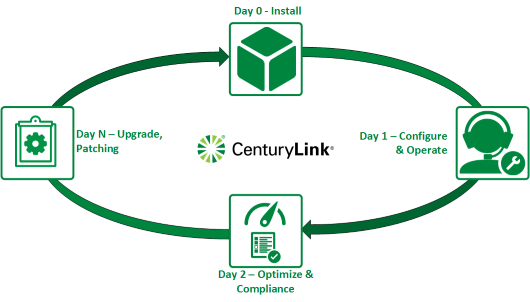
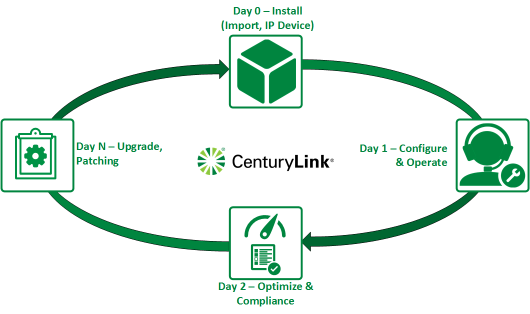
fix lifecycle definition

Changed region(s): [[0.0, 0.0, 1.0, 0.9834], [0.3623, 0.447, 0.634, 0.5662], [0.6642, 0.4172, 0.8453, 0.5364]]

diff --git a/Network/load-balancing-comparison-matrix.md b/Network/load-balancing-comparison-matrix.md
@@ -35,11 +35,11 @@ OSI Model<sup>5</sup>|Layer 4|Layer 4|Layer 4<br>Layer 7|Layer 4<br>Layer 7
 
 <sup>3: [Support](//www.ctl.io/support/) is defined as an agreement between CenturyLink and the customer to provide technical support and incident management for the load balancing service. **Limited Support provides customer service engineers to confirm the infrastructure state and virtual machine state.  Customers are responsible for all Day 1, 2 and N operational support.**</sup>
 
-<sup>4: [CenturyLink offers](//ctl.io/pricing) various pricing models for the Citrix VPX virtual appliance based on performance and availability needs.  Customers can elect to upgrade **edition** and **availability** configurations at any time.
+<sup>4: [CenturyLink offers](//ctl.io/pricing) various pricing models for the Citrix VPX virtual appliance based on performance and availability needs.  Customers can elect to upgrade **[edition](//www.citrix.com/products/netscaler-adc/platforms.html#editions)** and **availability** configurations at any time.
 
 <sup>5: Layer 4 is related to fourth layer of the OSI model: transport level. For example: TCP and UDP protocols are transport level. Layer 7 is related to seventh layer of the OSI model: application level. For example: HTTP, FTP, SMTP, DNS protocols are application level.</sup>
 
-<sup>6: CenturyLink provides lifecycle management based on Day 0 (Install), 1 (Configure, Operate), 2 (Optimize, Compliance) and N (Upgrade, Patching) methodologies.  Customers are responsible for any operational support that is not included in the base offering.
+<sup>6: CenturyLink provides lifecycle management based on Day 0 (Install: Import, IP Device), 1 (Configure, Operate), 2 (Optimize, Compliance) and N (Upgrade, Patching) methodologies.  Customers are responsible for any operational support that is not included in the base offering.
 
   ![Lifecycle Management](../images/lifecycle-management.png)
 
